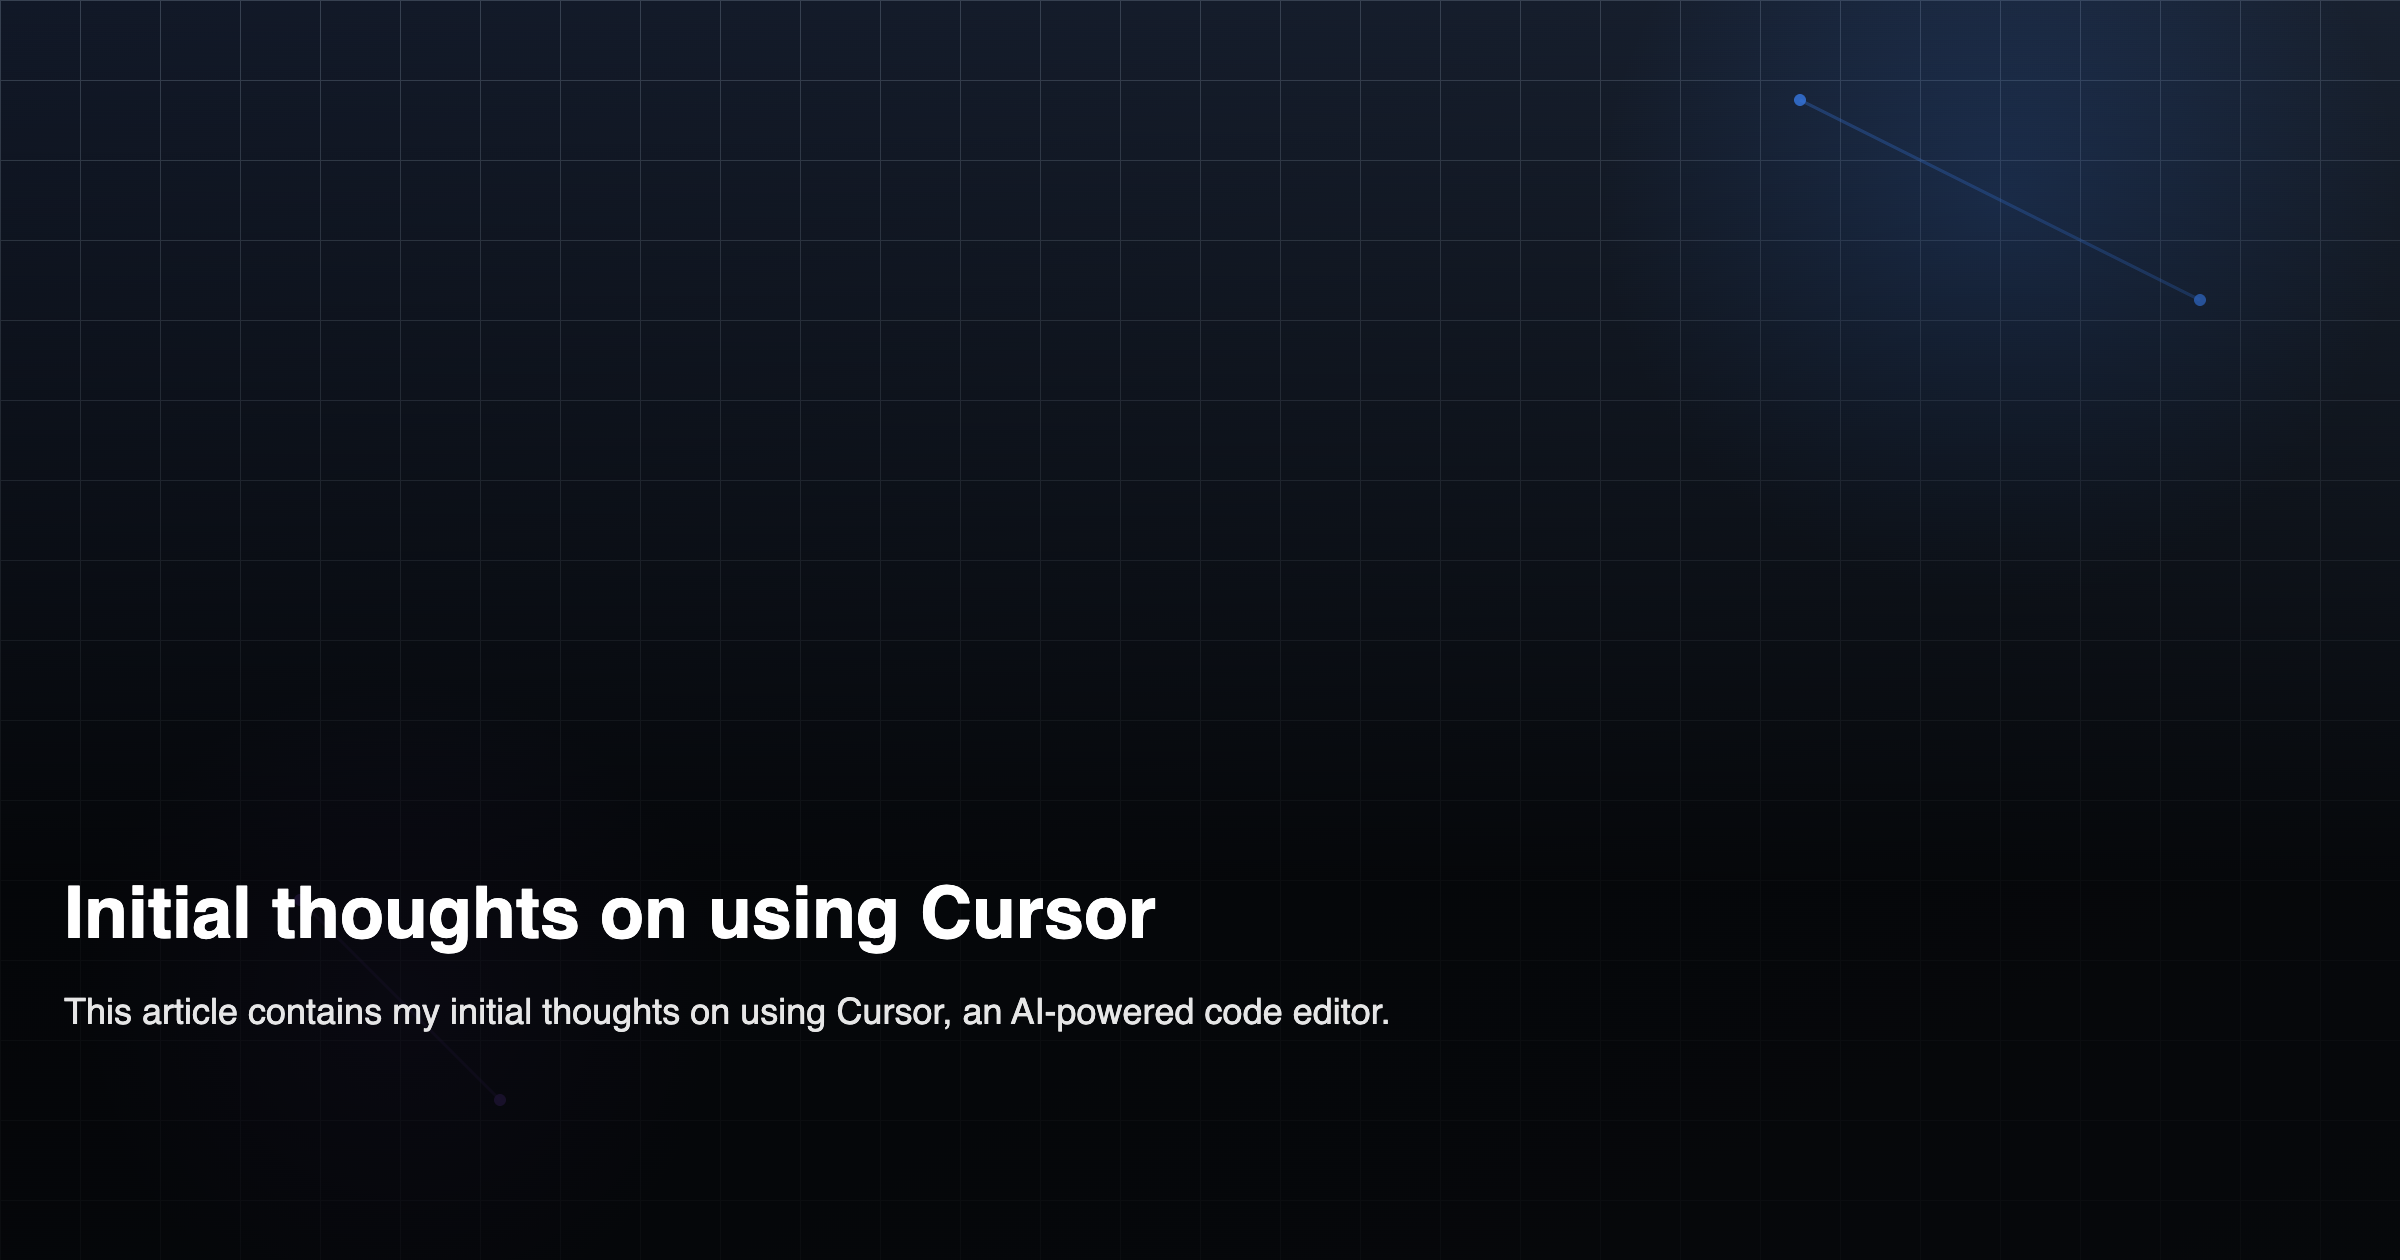
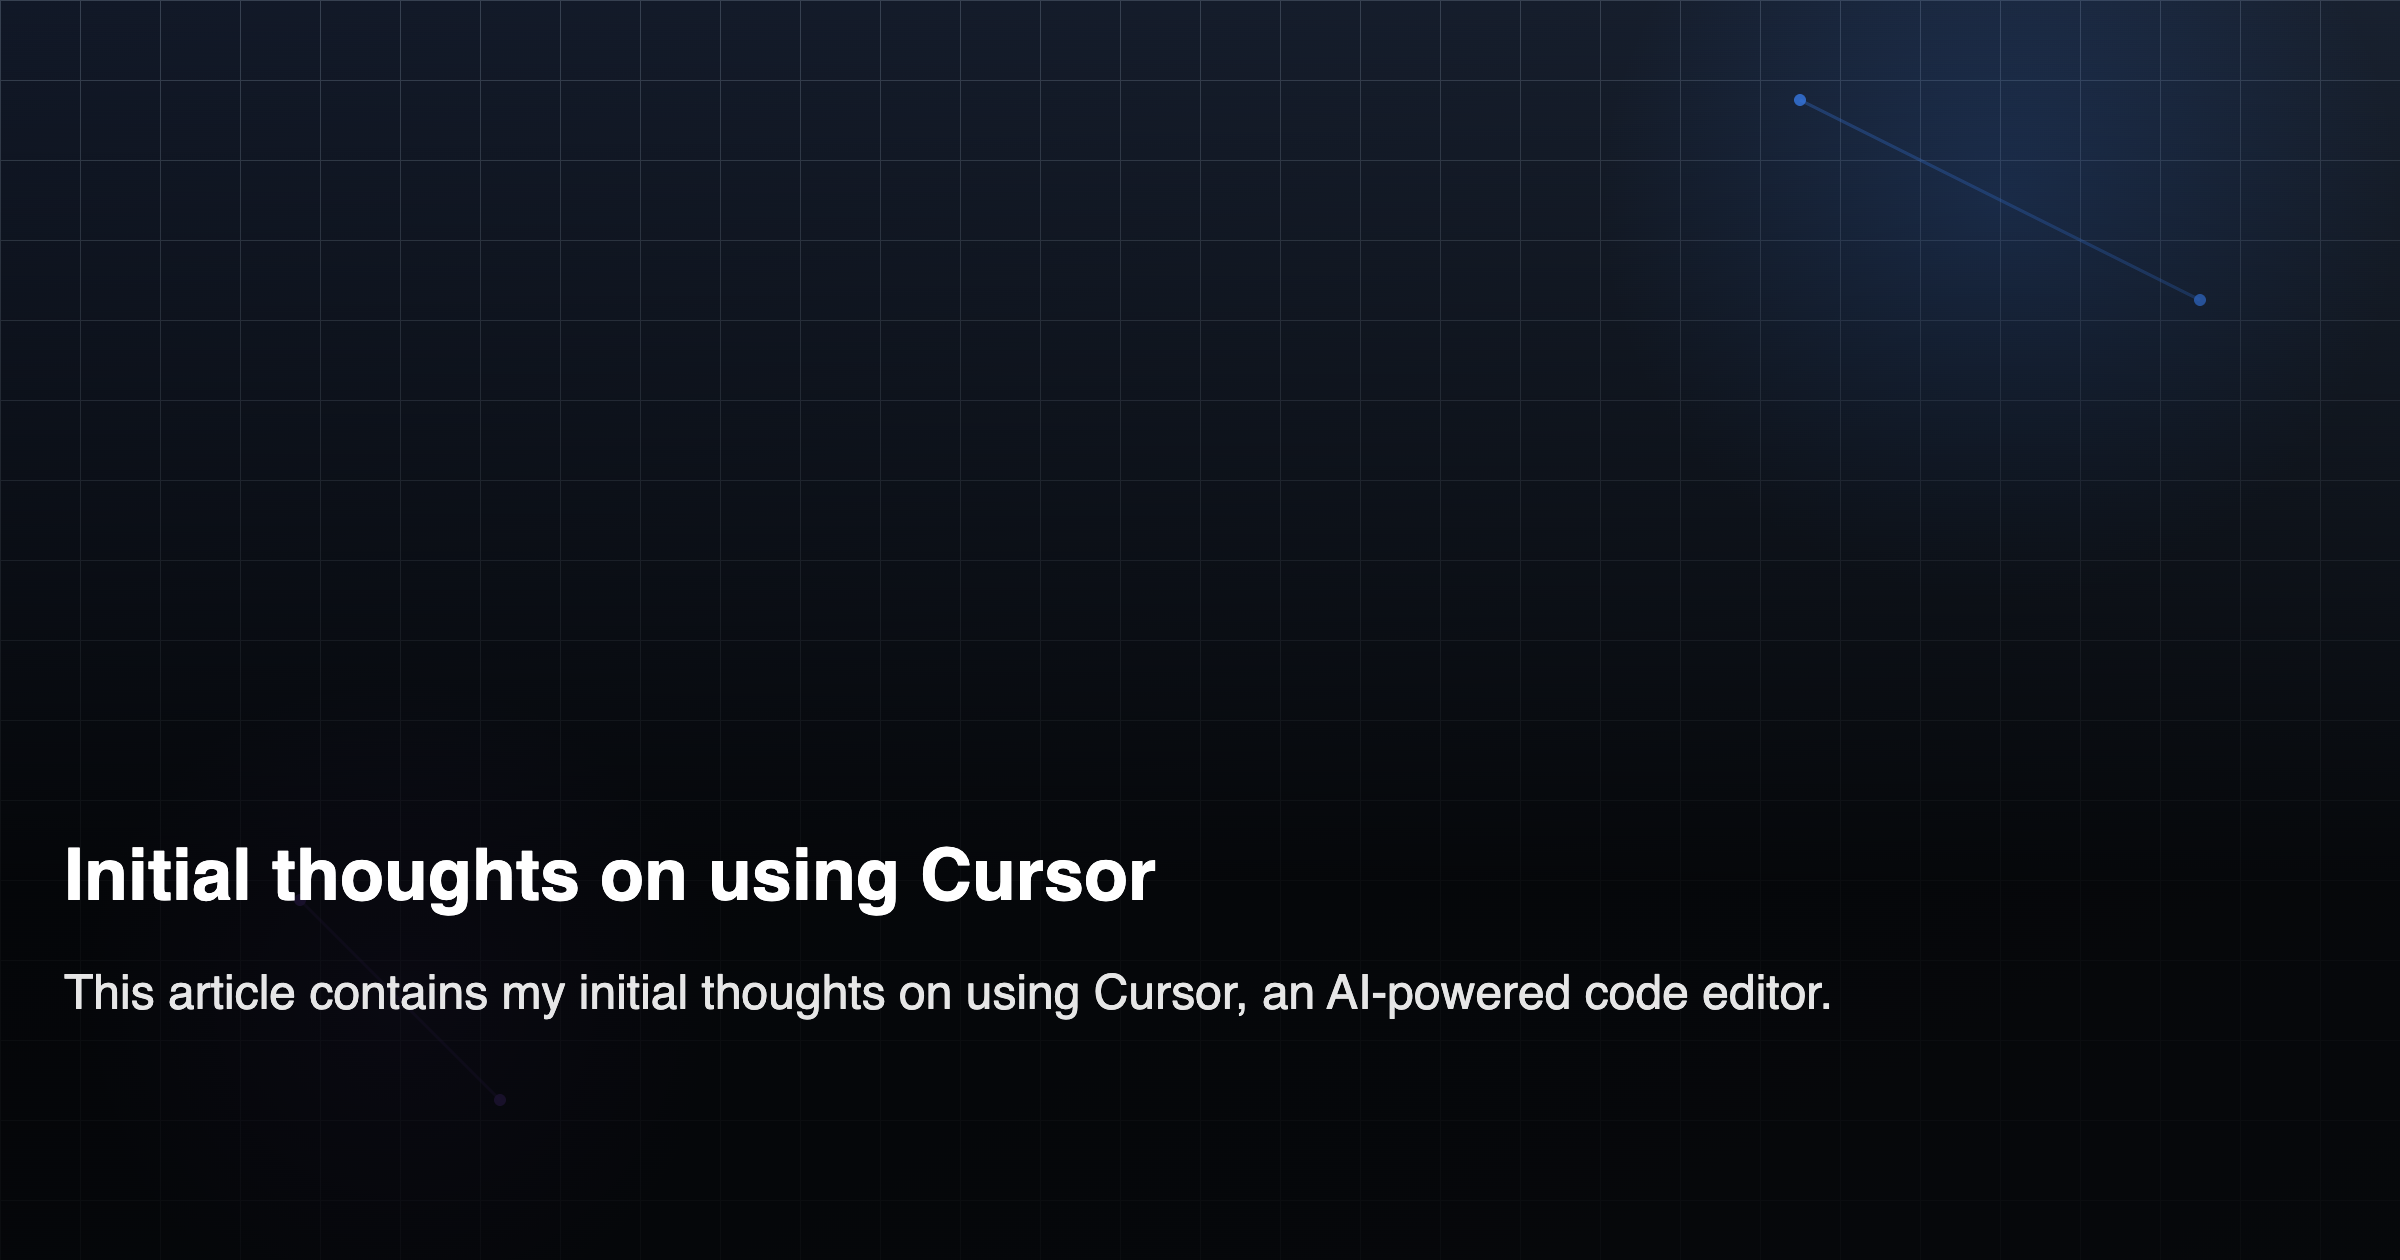
Increase description font size in og graph image

Changed region(s): [[0.0312, 0.65, 0.7812, 0.8357]]

diff --git a/app/components/OGGraphImage.tsx b/app/components/OGGraphImage.tsx
@@ -82,9 +82,9 @@ export async function generateOgImage({
               <circle cx="250" cy="550" r="3" fill="#8b5cf6" fill-opacity="0.8" />
             </svg>
             <div style="position: absolute; inset: 0; padding: 32px; display: flex; flex-direction: column; justify-content: flex-end; background: linear-gradient(to top, rgba(0,0,0,0.8) 0%, rgba(0,0,0,0.8) 30%, transparent 100%);">
-              <div style="max-width: 56rem; padding-bottom: 64px;">
+              <div style="max-width: 72rem; padding-bottom: 64px;">
                 <h2 style="font-size: 36px; font-weight: bold; margin-bottom: 16px; color: white;">${title}</h2>
-                <p style="font-size: 18px; opacity: 0.9; color: white;">${description}</p>
+                <p style="font-size: 24px; opacity: 0.9; color: white;">${description}</p>
               </div>
             </div>
           </div>
